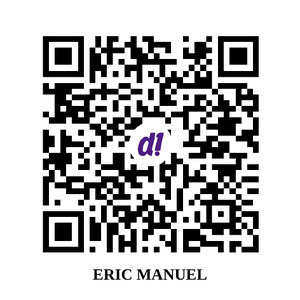
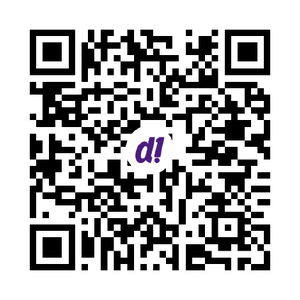
chore: QR without name label

diff --git a/landing/index.html b/landing/index.html
@@ -1237,7 +1237,7 @@ sequenceDiagram
       </div>
 
       <div class="footer-coffee">
-        <img src="images/deuna-qr-300.png" alt="DeUna QR code to support Eric Manuel" width="120" height="120" loading="lazy">
+        <img src="images/deuna-qr-300.png" alt="DeUna QR code" width="120" height="120" loading="lazy">
         <div>
           <p class="footer-coffee-title">☕ Buy me a coffee / Cómprame un café</p>
           <p>If artifacts-manager helped you, you can buy me a coffee via DeUna (Ecuador). Si este recurso te sirvió, invítame un café con DeUna.</p>

diff --git a/src/routes/+layout.svelte b/src/routes/+layout.svelte
@@ -22,7 +22,7 @@
       </p>
       <details class="footer-coffee">
         <summary>☕ Buy me a coffee / Cómprame un café</summary>
-        <img src="/images/deuna-qr-300.png" alt="DeUna QR code to support Eric Manuel" width="150" loading="lazy" />
+        <img src="/images/deuna-qr-300.png" alt="DeUna QR code" width="150" loading="lazy" />
         <p>Si este recurso te sirvió, invítame un café con DeUna (Ecuador). Escanéalo con la app DeUna o la app de tu banco ecuatoriano.</p>
       </details>
     </div>

diff --git a/README.md b/README.md
@@ -45,6 +45,6 @@ Full setup, commands, and architecture: **[AGENTS.md](AGENTS.md)**.
 
 Si este recurso te sirvió, invítame un café con DeUna (Ecuador). / If this project helped you, you can buy me a coffee via DeUna.
 
-<img src=".github/assets/deuna-qr-300.png" alt="Código QR de DeUna para apoyar a Eric Manuel / DeUna QR code to support Eric Manuel" width="200">
+<img src=".github/assets/deuna-qr-300.png" alt="Código QR de DeUna / DeUna QR code" width="200">
 
 Escanéalo desde la app DeUna o desde la app de tu banco ecuatoriano compatible con DeUna. / Scan it with the DeUna app or a DeUna-enabled Ecuadorian banking app.
